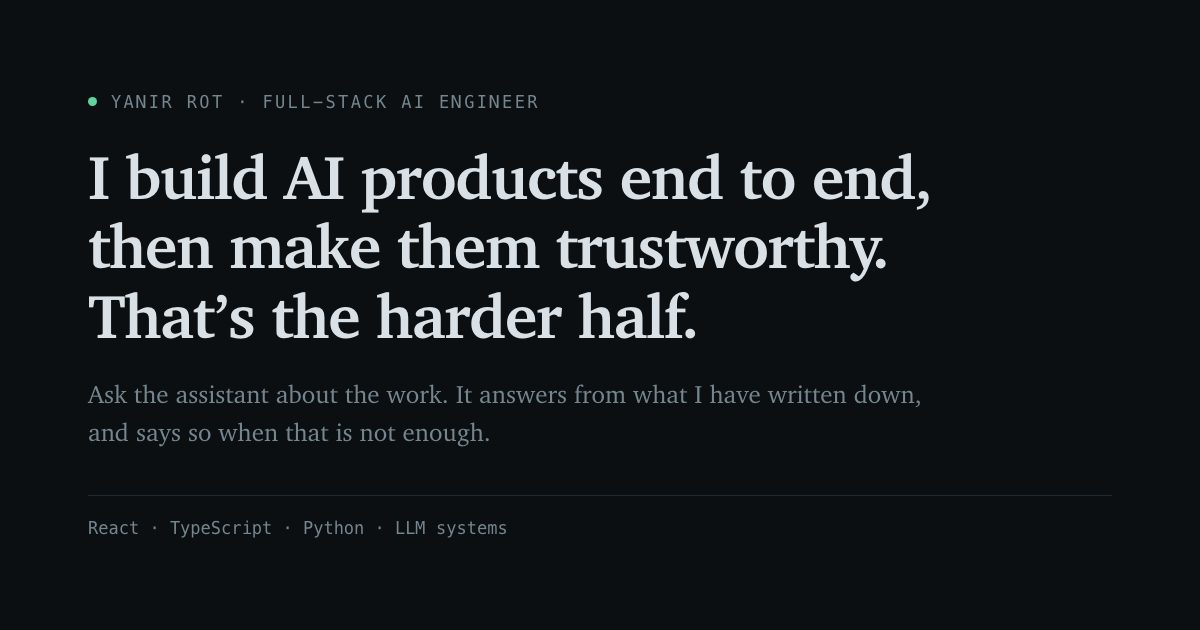
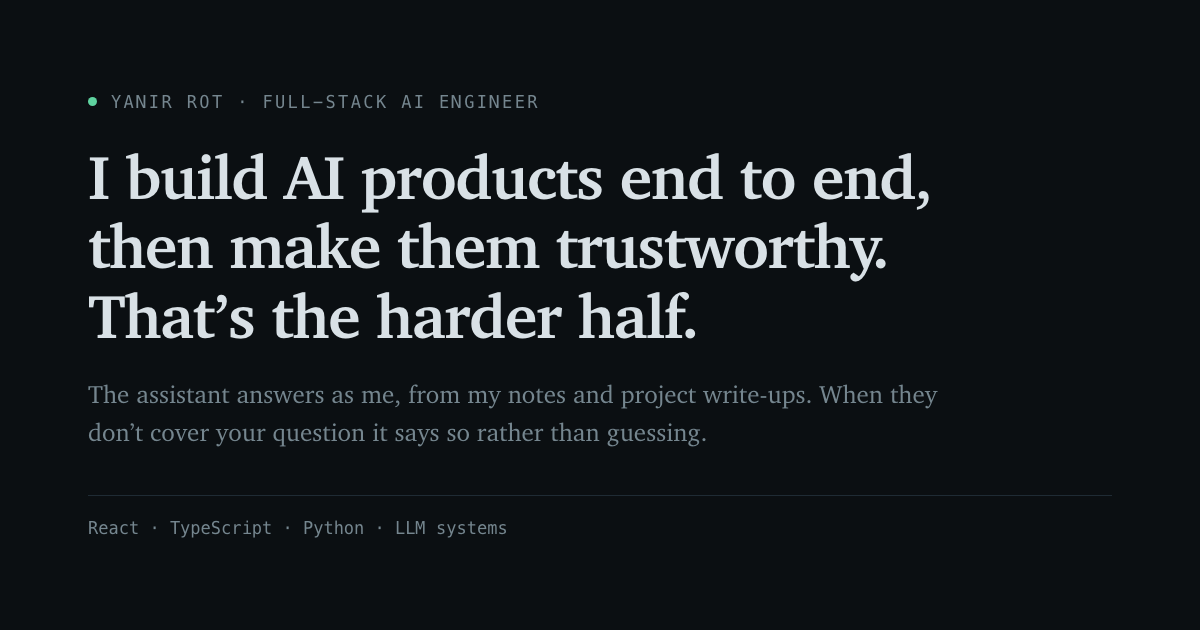
fix(frontend): make the link preview say what the page says
The home page standfirst was rewritten; the link preview was not. Sharing
the site produced a card advertising a sentence the site no longer said:

  "Ask the assistant here about the work: it answers from what he has
   written down, and says so when that is not enough."

Two things were wrong with it beyond being stale. It opened by restating
the card's own title - which already reads "Yanir Rot - Full-Stack AI
Engineer" directly above it - spending half the description before saying
anything new. And it described the assistant in the third person, "what
he has written down", on a site whose entire argument is that it answers
in Yanir's own voice.

The sentence existed in five places: the page, three description tags in
index.html, and tools/og-image.html, which is the source rendered into
public/og-image.png. Four were pasted copies, so the page changed alone
and the card kept contradicting it - including visually, since the old
standfirst is baked into the image.

The page is now the only place it is written. SITE_COPY.STANDFIRST holds
it, Home.tsx renders it, and because index.html and og-image.html sit
outside the module graph and cannot import a constant,
`npm run check:preview-copy` asserts they still match and runs in CI.
Verified in both directions: it passes as shipped, and fails with the
offending file named when one copy is altered.

A stale preview is invisible from inside the app - every other check
[…]

Changed region(s): [[0.0617, 0.6032, 0.7708, 0.7238]]

diff --git a/frontend/index.html b/frontend/index.html
@@ -11,7 +11,7 @@
         <meta name="title" content="Yanir Rot - Full-Stack AI Engineer" />
         <meta
             name="description"
-            content="Yanir Rot - full-stack engineer working on production LLM and multi-agent systems. Ask the assistant here about the work: it answers from what he has written down, and says so when that is not enough."
+            content="The assistant answers as me, from my notes and project write-ups. When they don’t cover your question it says so rather than guessing."
         />
 
         <!-- The site-URL placeholder below is substituted at build time from the
@@ -26,7 +26,7 @@
         <meta property="og:title" content="Yanir Rot - Full-Stack AI Engineer" />
         <meta
             property="og:description"
-            content="Yanir Rot - full-stack engineer working on production LLM and multi-agent systems. Ask the assistant here about the work: it answers from what he has written down, and says so when that is not enough."
+            content="The assistant answers as me, from my notes and project write-ups. When they don’t cover your question it says so rather than guessing."
         />
         <!-- LinkedIn treats og:image as required, not optional: without it the
              Featured-section card renders blank and the link-preview fetch
@@ -51,7 +51,7 @@
         <meta property="twitter:title" content="Yanir Rot - Full-Stack AI Engineer" />
         <meta
             property="twitter:description"
-            content="Yanir Rot - full-stack engineer working on production LLM and multi-agent systems. Ask the assistant here about the work: it answers from what he has written down, and says so when that is not enough."
+            content="The assistant answers as me, from my notes and project write-ups. When they don’t cover your question it says so rather than guessing."
         />
         <meta property="twitter:image" content="%VITE_SITE_URL%/og-image.png" />
 

diff --git a/frontend/src/pages/Home.tsx b/frontend/src/pages/Home.tsx
@@ -1,5 +1,6 @@
 import React from 'react';
 import Chat from '@/components/Chat';
+import { SITE_COPY } from '@/constants/config';
 
 /*
  * The hero is the page's thesis, not a greeting.
@@ -54,7 +55,7 @@ const Home: React.FC = () => {
                         only guards the last line against an orphan and leaves
                         the rest to fill naturally. */}
                     <h1 className="text-2xl font-semibold tracking-tight leading-[1.15] text-pretty sm:text-3xl md:text-4xl lg:text-5xl lg:leading-[1.12] text-content">
-                        I build AI products end to end, then make them trustworthy. That&apos;s the
+                        I build AI products end to end, then make them trustworthy. That’s the
                         harder half.
                     </h1>
                     {/* No positional word here. "The assistant below" was true
@@ -62,9 +63,12 @@ const Home: React.FC = () => {
                         moment it became two. Copy that describes the layout has
                         to be revisited every time the layout moves; copy that
                         describes the thing does not. */}
+                    {/* Read from SITE_COPY rather than written here: the same
+                        sentence has to appear in the meta tags and on the link
+                        preview card, and the copy that lived in five places is
+                        the copy that went stale in four of them. */}
                     <p className="mt-3 text-base leading-relaxed sm:mt-4 sm:text-lg lg:mt-5 lg:text-xl text-muted">
-                        The assistant answers as me, from my notes and project write-ups. When they
-                        don&apos;t cover your question it says so rather than guessing.
+                        {SITE_COPY.STANDFIRST}
                     </p>
 
                     {/* The dare. One line, in mono behind a rule, so it reads as

diff --git a/frontend/src/constants/config.ts b/frontend/src/constants/config.ts
@@ -21,3 +21,23 @@ export const CHAT_CONFIG = {
     INITIAL_MESSAGE:
         "Ask about the work, how it was built, or what went wrong. I answer from my notes and project write-ups, so if something isn't written down I'll say so rather than guess.",
 } as const;
+
+/*
+ * The home page standfirst, and the single source of the same sentence
+ * everywhere else it appears.
+ *
+ * It was previously written out by hand in five places - the page, three meta
+ * tags in index.html, and tools/og-image.html - and the page was the only one
+ * that got updated. The link preview then advertised a sentence the site no
+ * longer said, in the third person, on a site whose whole argument is that it
+ * answers in Yanir's own voice.
+ *
+ * index.html and og-image.html sit outside the module graph and cannot import
+ * this, so `npm run check:preview-copy` asserts they still match it and runs in
+ * CI. Change the sentence here, run `npm run check:preview-copy` to see what
+ * else needs updating, then regenerate the card per tools/og-image.html.
+ */
+export const SITE_COPY = {
+    STANDFIRST:
+        'The assistant answers as me, from my notes and project write-ups. When they don’t cover your question it says so rather than guessing.',
+} as const;

diff --git a/frontend/tools/og-image.html b/frontend/tools/og-image.html
@@ -78,7 +78,7 @@
 <body>
   <div class="eyebrow"><span class="dot"></span>Yanir Rot &middot; Full-Stack AI Engineer</div>
   <h1>I build AI products end to end, then make them trustworthy. That&rsquo;s the harder half.</h1>
-  <p class="sub">Ask the assistant about the work. It answers from what I have written down, and says so when that is not enough.</p>
+  <p class="sub">The assistant answers as me, from my notes and project write-ups. When they don’t cover your question it says so rather than guessing.</p>
   <div class="rule"></div>
   <div class="foot"><span>React &middot; TypeScript &middot; Python &middot; LLM systems</span></div>
 </body>
